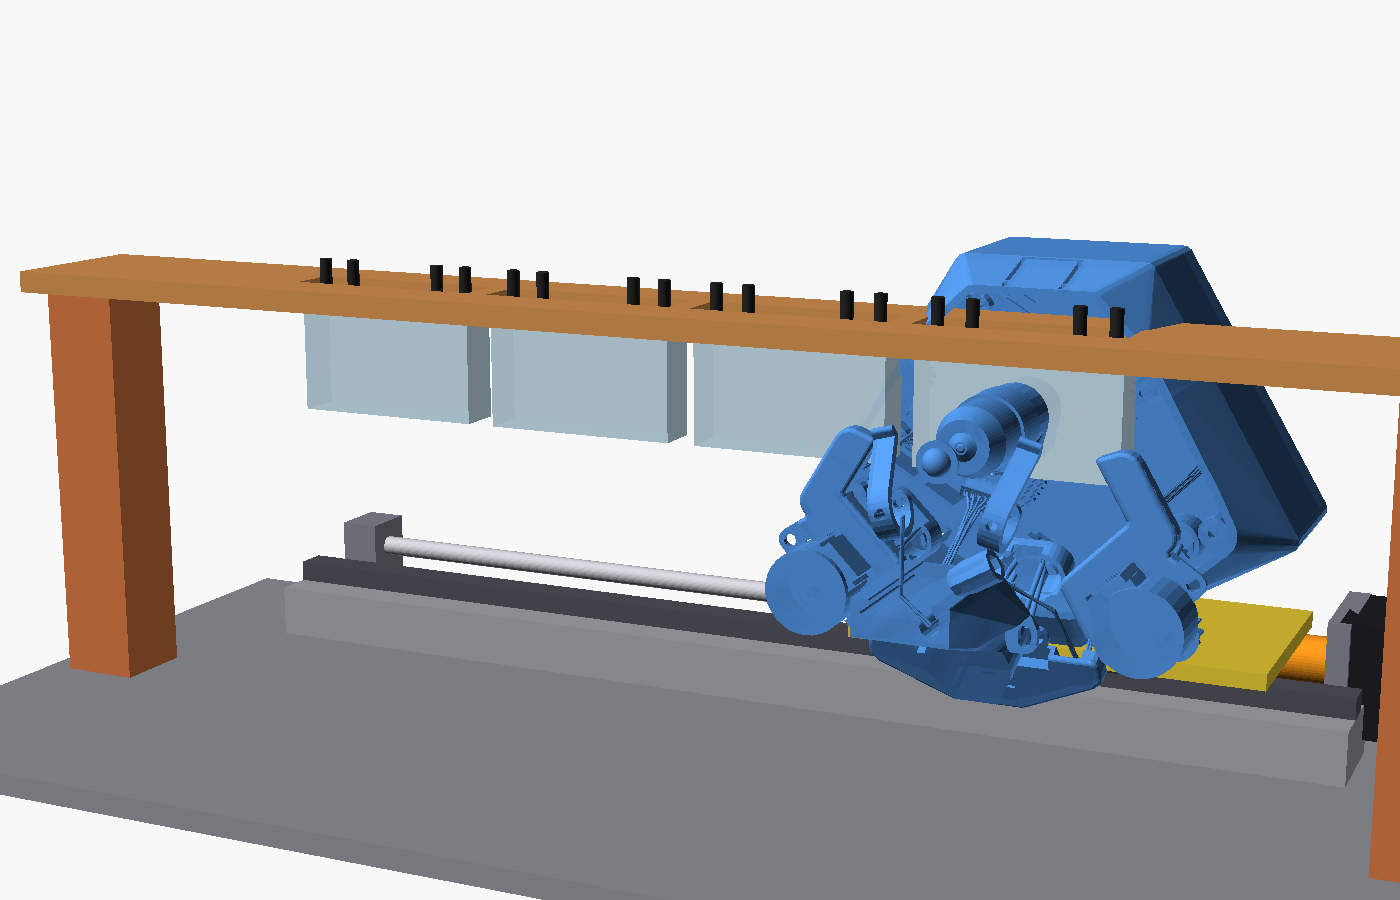
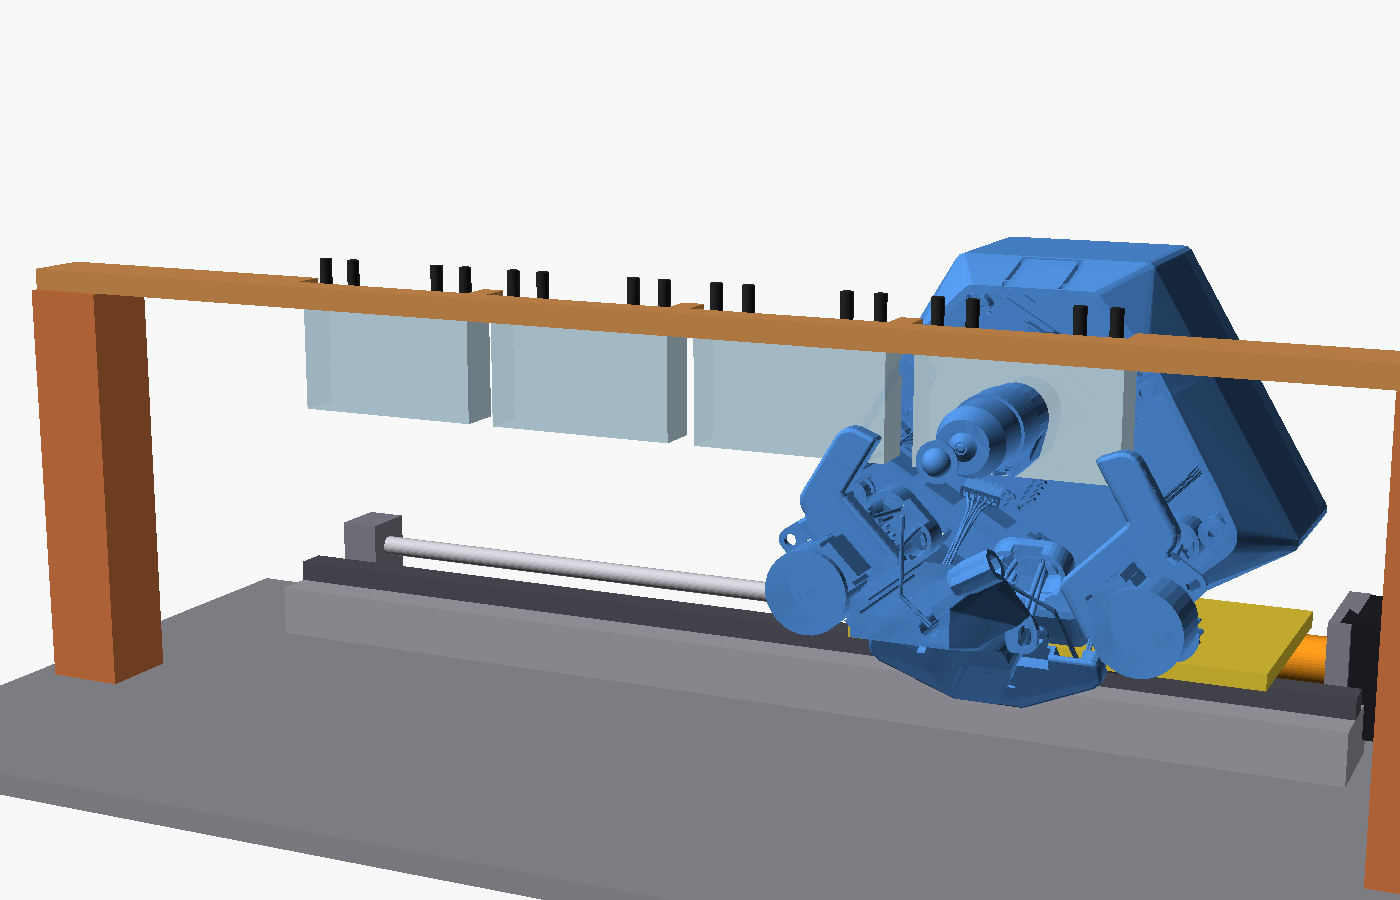
fix: remove sample clips from embedded model, de-collide bridge traverse
Microscope STL re-rendered without sample clips (new noclips render
variant) so the chip sits where the clips were, like a slide against the
stage. Traverse board slimmed to 24 mm and moved behind y=80: at board
height the microscope reaches only y=78 (measured from the STL), so the
moving body clears the fixed bridge. Cutouts are now front-open notches.
Documented the quantified condenser conflict (2.5 mm slide gap vs 16 mm
chip) as the required stock-geometry modification.

diff --git a/docs/RAIL_MOUNT_CONCEPT.md b/docs/RAIL_MOUNT_CONCEPT.md
@@ -24,11 +24,29 @@
 > carriage: its resting face lands on the adapter (`oa_z ≈ 135 mm`) and the
 > reactor optical window is placed at the microscope's **sample plane**.
 >
-> ⚠ **Consequence to note:** with the reactor at the sample plane, the
-> **condenser / illumination arm is on the +Y side** of the chip (correct for
-> trans-illumination), so the arm shares the space just past each reactor.
-> Confirm condenser-to-chip clearance along the row (may need a shortened /
-> re-routed illumination arm for a dense reactor series).
+> ⚠ **Condenser conflict — now quantified:** the embedded model's illumination
+> assembly reaches down to **y = 77.5 mm**, i.e. only **~2.5 mm above the
+> sample plane** — that is slide clearance, not chip clearance. The hochkant
+> chip occupies y = 75…91 (16 mm thickness), so the **stock condenser
+> physically cannot coexist with the chip** at a station. The illumination
+> must be raised / shortened / re-routed (≥ 16 mm working gap) — this is the
+> single biggest required modification to the stock OpenFlexure geometry and
+> is visible as residual overlap in the renders at the docked station.
+>
+> ✅ **Sample clips removed from the model:** the microscope STL is now rendered
+> without sample clips (`hardware/mount/openscad/complete_microscope_rms_noclips.scad`,
+> a variant of upstream `rendering/complete_microscope.scad` omitting
+> `render_sample_clips()`; copy it into the upstream `rendering/` dir and
+> render it there to regenerate the STL) — the chip sits exactly where the
+> clips were, against the stage surface like a slide.
+>
+> ✅ **Bridge collision fixed by measurement:** at board height (world
+> z ≥ 155 mm) the microscope's largest reach past the sample plane is
+> **y = 78 mm** (measured from the STL). The traverse board is therefore slim
+> (24 mm) and starts at **y = 80 mm** (`bridge_y_clear = 5`), behind the
+> sample plane — the moving microscope passes under/before it without contact.
+> The station cutouts are **front-open notches**: chips slide in from the
+> objective side.
 >
 > ✅ **Bioreactor STL integrated:** `hardware/bioreactors/chip_senkrecht_mit_bodenplatte.stl`.
 > Base plate (Bodenplatte) removed for the calculations per
